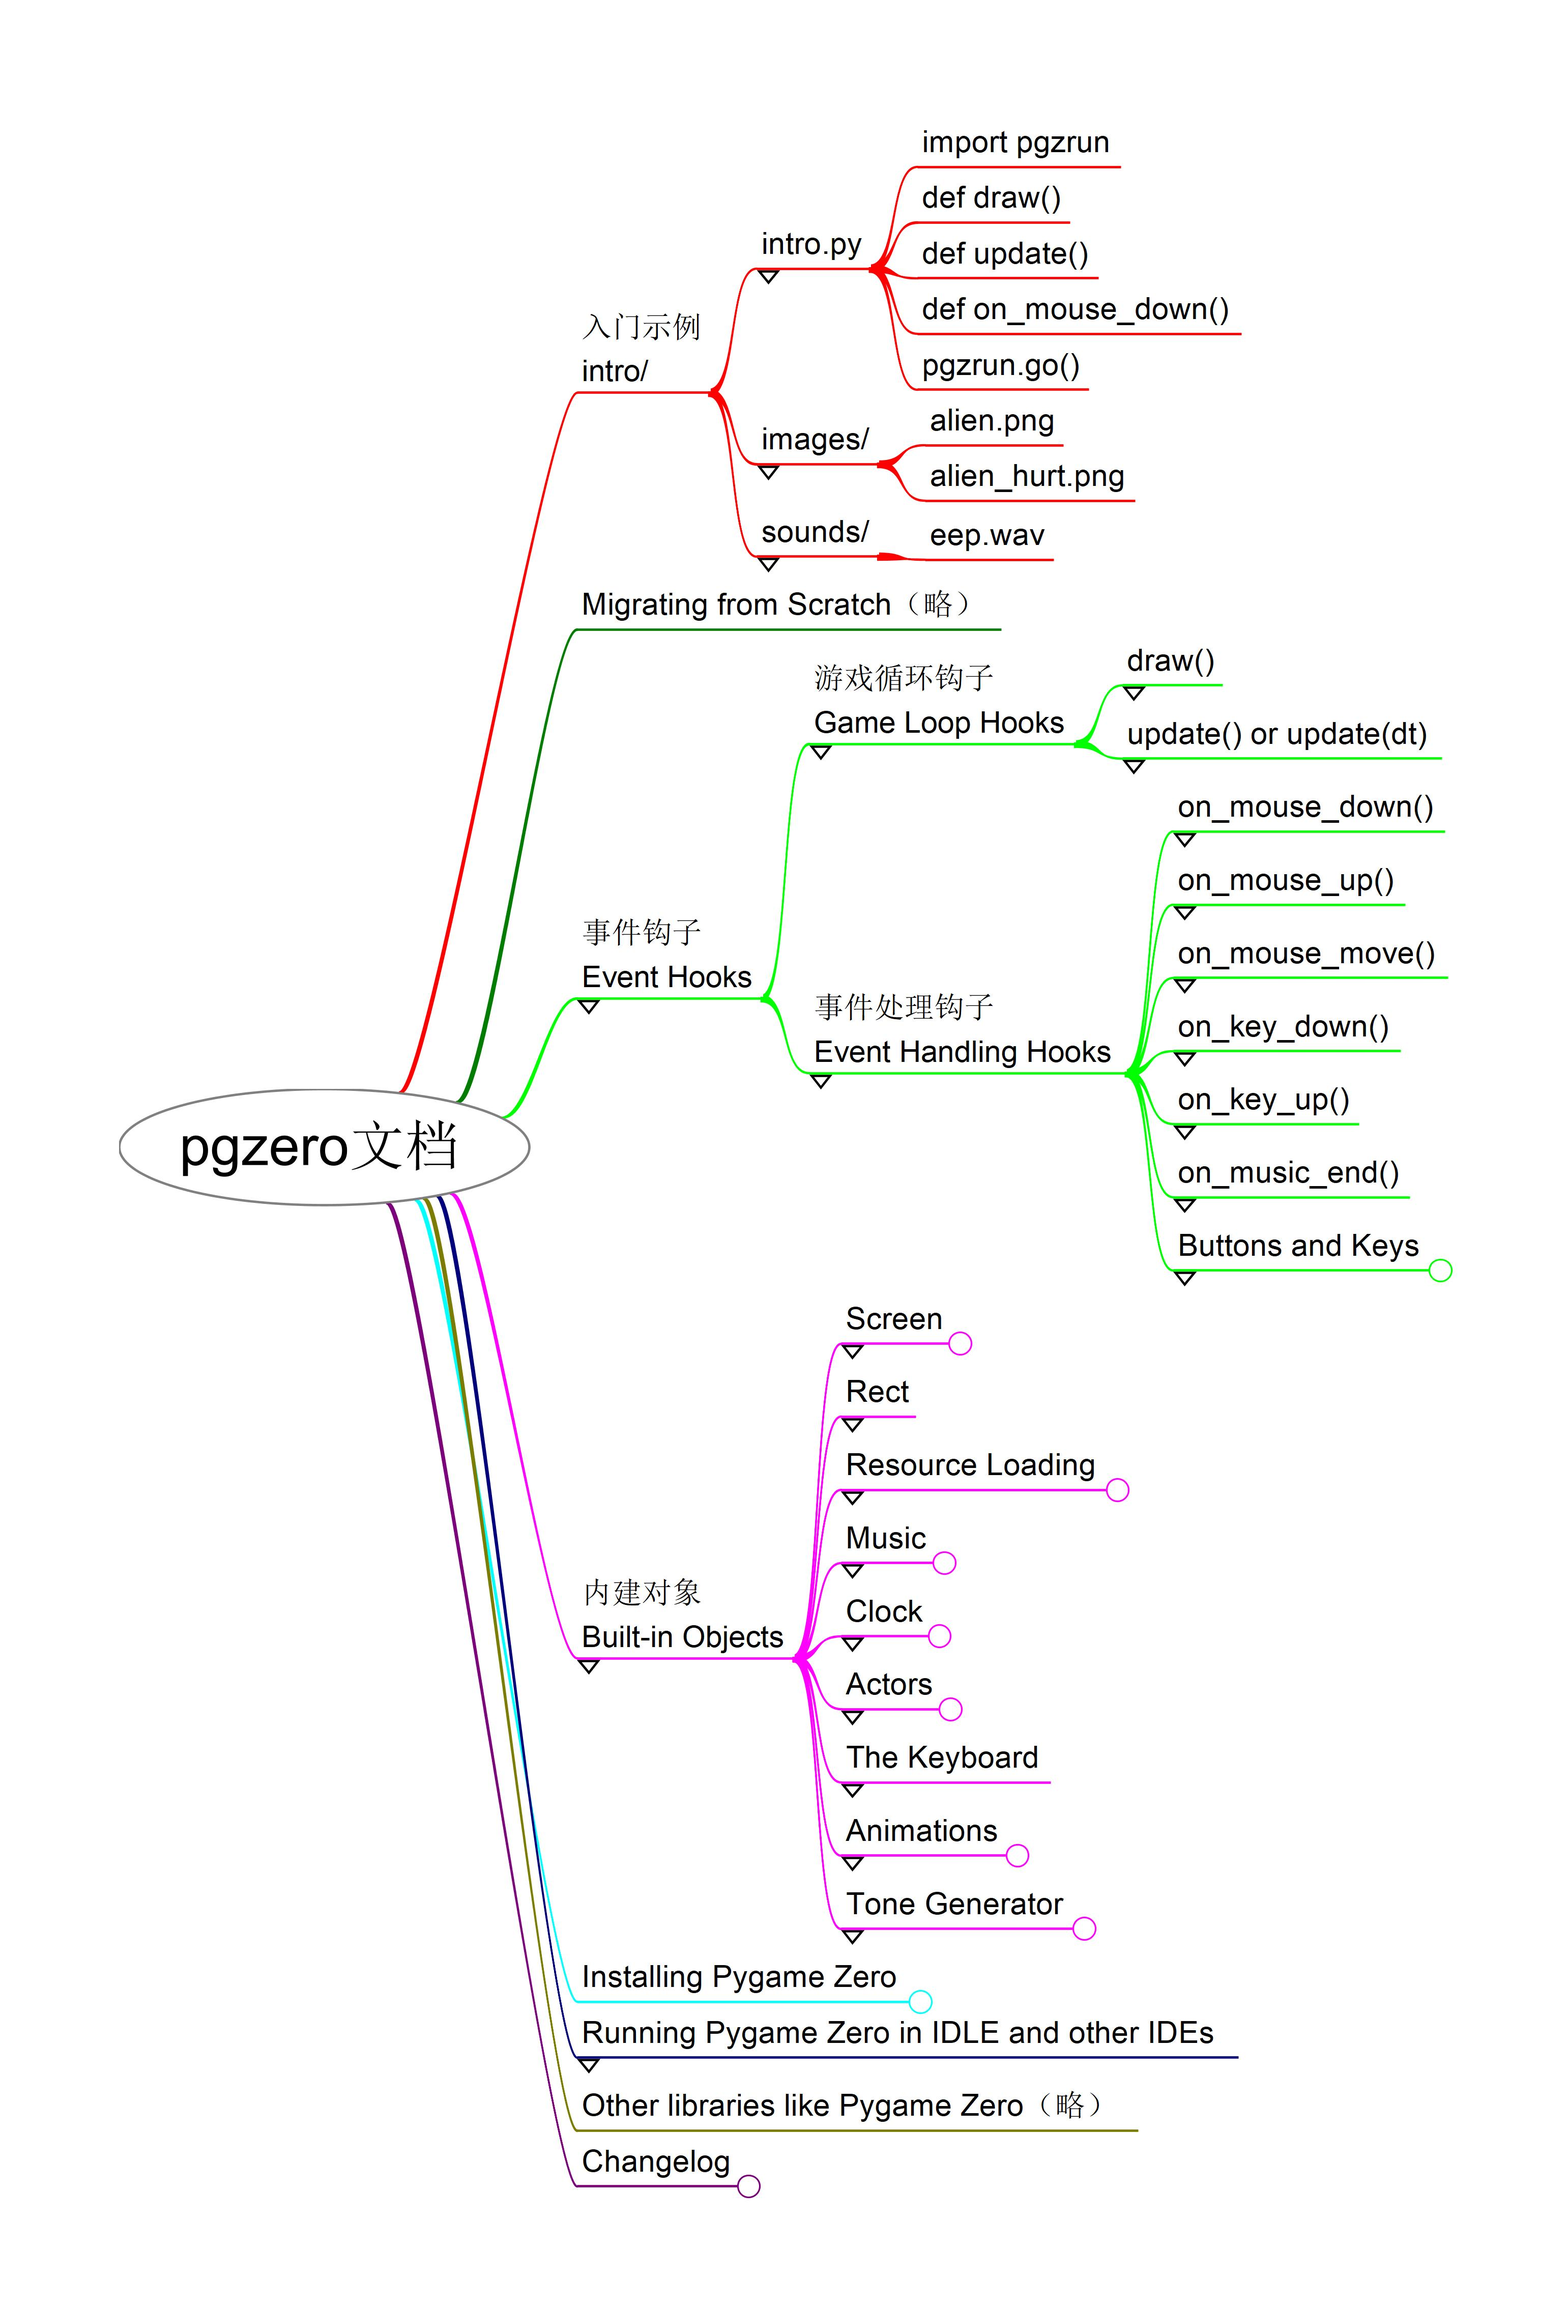
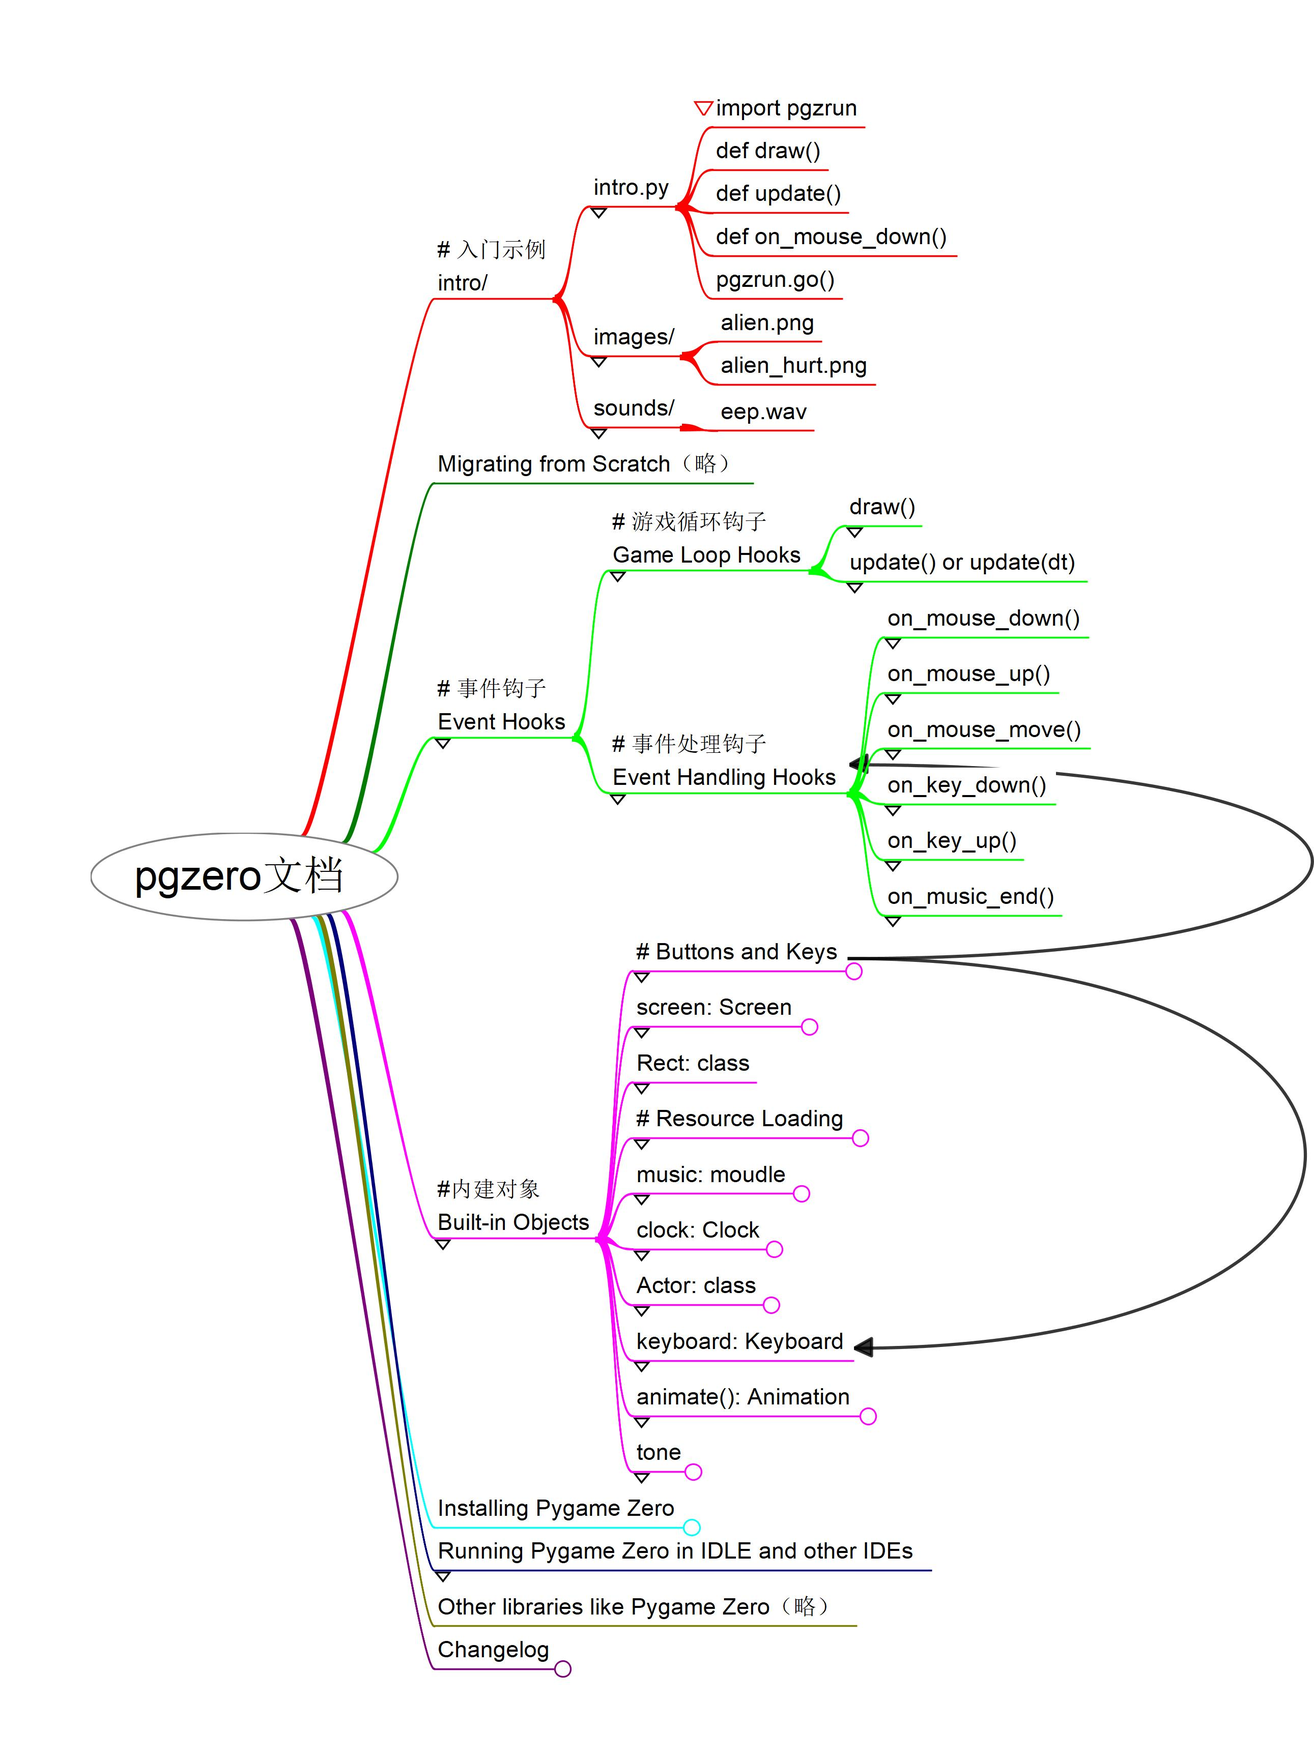
m

Changed region(s): [[0.093, 0.0624, 0.9295, 0.9676], [0.9915, 0.6243, 1.0, 0.6867], [0.9915, 0.4682, 1.0, 0.4994]]

diff --git a/author/huang-fu-xiong.html b/author/huang-fu-xiong.html
@@ -71,10 +71,10 @@
         </div>
         
         <div>
-<p>我觉得Python + Pygame Zero + Thonny是最好的少儿编程入门技术路线。今天吧Pygame Zero v1.2的文档整理成思维导图，看起来真的很简单。</p>
+<p>我认为Python + Pygame Zero + Thonny是最好的少儿编程入门技术路线。今天把Pygame Zero v1.2的文档，结合源码分析整理成思维导图，看起来真的很简单。</p>
 <p>先上个图：</p>
 <p><img alt="Pygame Zero文档的思维导图" src="/images/pgzero_doc/pgzero_doc.jpg"/></p>
-<p>这是原文件（Freeplane格式），包含文档的完整内容，但还没有翻译：</p>
+<p>下面是原文件（Freeplane格式），包含官方文档的完整内容，以及分析源码获得的一些信息。还没有翻译。</p>
 <p><a href="/pgzero_doc.7z">pgzero_doc.7z</a></p>
 <p>这一年多少儿编程教育兴起，Scratch大火，机构赶紧圈钱，孩子确实喜欢，父母愉快入坑。
 但Scratch不是实用语言，而是乐高式的玩具语言，主要好处/目标是让孩子容易理解，降低难度，激发兴趣。</p>

diff --git a/category/xi-pygamepgzero.html b/category/xi-pygamepgzero.html
@@ -71,10 +71,10 @@
         </div>
         
         <div>
-<p>我觉得Python + Pygame Zero + Thonny是最好的少儿编程入门技术路线。今天吧Pygame Zero v1.2的文档整理成思维导图，看起来真的很简单。</p>
+<p>我认为Python + Pygame Zero + Thonny是最好的少儿编程入门技术路线。今天把Pygame Zero v1.2的文档，结合源码分析整理成思维导图，看起来真的很简单。</p>
 <p>先上个图：</p>
 <p><img alt="Pygame Zero文档的思维导图" src="/images/pgzero_doc/pgzero_doc.jpg"/></p>
-<p>这是原文件（Freeplane格式），包含文档的完整内容，但还没有翻译：</p>
+<p>下面是原文件（Freeplane格式），包含官方文档的完整内容，以及分析源码获得的一些信息。还没有翻译。</p>
 <p><a href="/pgzero_doc.7z">pgzero_doc.7z</a></p>
 <p>这一年多少儿编程教育兴起，Scratch大火，机构赶紧圈钱，孩子确实喜欢，父母愉快入坑。
 但Scratch不是实用语言，而是乐高式的玩具语言，主要好处/目标是让孩子容易理解，降低难度，激发兴趣。</p>

diff --git a/index.html b/index.html
@@ -71,10 +71,10 @@
         </div>
         
         <div>
-<p>我觉得Python + Pygame Zero + Thonny是最好的少儿编程入门技术路线。今天吧Pygame Zero v1.2的文档整理成思维导图，看起来真的很简单。</p>
+<p>我认为Python + Pygame Zero + Thonny是最好的少儿编程入门技术路线。今天把Pygame Zero v1.2的文档，结合源码分析整理成思维导图，看起来真的很简单。</p>
 <p>先上个图：</p>
 <p><img alt="Pygame Zero文档的思维导图" src="/images/pgzero_doc/pgzero_doc.jpg"/></p>
-<p>这是原文件（Freeplane格式），包含文档的完整内容，但还没有翻译：</p>
+<p>下面是原文件（Freeplane格式），包含官方文档的完整内容，以及分析源码获得的一些信息。还没有翻译。</p>
 <p><a href="/pgzero_doc.7z">pgzero_doc.7z</a></p>
 <p>这一年多少儿编程教育兴起，Scratch大火，机构赶紧圈钱，孩子确实喜欢，父母愉快入坑。
 但Scratch不是实用语言，而是乐高式的玩具语言，主要好处/目标是让孩子容易理解，降低难度，激发兴趣。</p>

diff --git a/tag/pygame-zero.html b/tag/pygame-zero.html
@@ -71,10 +71,10 @@
         </div>
         
         <div>
-<p>我觉得Python + Pygame Zero + Thonny是最好的少儿编程入门技术路线。今天吧Pygame Zero v1.2的文档整理成思维导图，看起来真的很简单。</p>
+<p>我认为Python + Pygame Zero + Thonny是最好的少儿编程入门技术路线。今天把Pygame Zero v1.2的文档，结合源码分析整理成思维导图，看起来真的很简单。</p>
 <p>先上个图：</p>
 <p><img alt="Pygame Zero文档的思维导图" src="/images/pgzero_doc/pgzero_doc.jpg"/></p>
-<p>这是原文件（Freeplane格式），包含文档的完整内容，但还没有翻译：</p>
+<p>下面是原文件（Freeplane格式），包含官方文档的完整内容，以及分析源码获得的一些信息。还没有翻译。</p>
 <p><a href="/pgzero_doc.7z">pgzero_doc.7z</a></p>
 <p>这一年多少儿编程教育兴起，Scratch大火，机构赶紧圈钱，孩子确实喜欢，父母愉快入坑。
 但Scratch不是实用语言，而是乐高式的玩具语言，主要好处/目标是让孩子容易理解，降低难度，激发兴趣。</p>

diff --git a/tag/you-xi.html b/tag/you-xi.html
@@ -71,10 +71,10 @@
         </div>
         
         <div>
-<p>我觉得Python + Pygame Zero + Thonny是最好的少儿编程入门技术路线。今天吧Pygame Zero v1.2的文档整理成思维导图，看起来真的很简单。</p>
+<p>我认为Python + Pygame Zero + Thonny是最好的少儿编程入门技术路线。今天把Pygame Zero v1.2的文档，结合源码分析整理成思维导图，看起来真的很简单。</p>
 <p>先上个图：</p>
 <p><img alt="Pygame Zero文档的思维导图" src="/images/pgzero_doc/pgzero_doc.jpg"/></p>
-<p>这是原文件（Freeplane格式），包含文档的完整内容，但还没有翻译：</p>
+<p>下面是原文件（Freeplane格式），包含官方文档的完整内容，以及分析源码获得的一些信息。还没有翻译。</p>
 <p><a href="/pgzero_doc.7z">pgzero_doc.7z</a></p>
 <p>这一年多少儿编程教育兴起，Scratch大火，机构赶紧圈钱，孩子确实喜欢，父母愉快入坑。
 但Scratch不是实用语言，而是乐高式的玩具语言，主要好处/目标是让孩子容易理解，降低难度，激发兴趣。</p>

diff --git a/pygame-zerowen-dang-de-si-wei-dao-tu.html b/pygame-zerowen-dang-de-si-wei-dao-tu.html
@@ -65,10 +65,10 @@
         </div>
 	
         <div>
-<p>我觉得Python + Pygame Zero + Thonny是最好的少儿编程入门技术路线。今天吧Pygame Zero v1.2的文档整理成思维导图，看起来真的很简单。</p>
+<p>我认为Python + Pygame Zero + Thonny是最好的少儿编程入门技术路线。今天把Pygame Zero v1.2的文档，结合源码分析整理成思维导图，看起来真的很简单。</p>
 <p>先上个图：</p>
 <p><img alt="Pygame Zero文档的思维导图" src="/images/pgzero_doc/pgzero_doc.jpg"/></p>
-<p>这是原文件（Freeplane格式），包含文档的完整内容，但还没有翻译：</p>
+<p>下面是原文件（Freeplane格式），包含官方文档的完整内容，以及分析源码获得的一些信息。还没有翻译。</p>
 <p><a href="/pgzero_doc.7z">pgzero_doc.7z</a></p>
 <p>这一年多少儿编程教育兴起，Scratch大火，机构赶紧圈钱，孩子确实喜欢，父母愉快入坑。
 但Scratch不是实用语言，而是乐高式的玩具语言，主要好处/目标是让孩子容易理解，降低难度，激发兴趣。</p>

diff --git a/archives.html b/archives.html
@@ -67,7 +67,7 @@
         <td><b></b></td>
     </tr>
     <tr>
-            <td>2019-11-23</td>
+            <td>2019-11-24</td>
         <td>2019-11-23</td>
         <td><a href='/pygame-zerowen-dang-de-si-wei-dao-tu.html'>Pygame Zero文档的思维导图</a></td>
     </tr>
